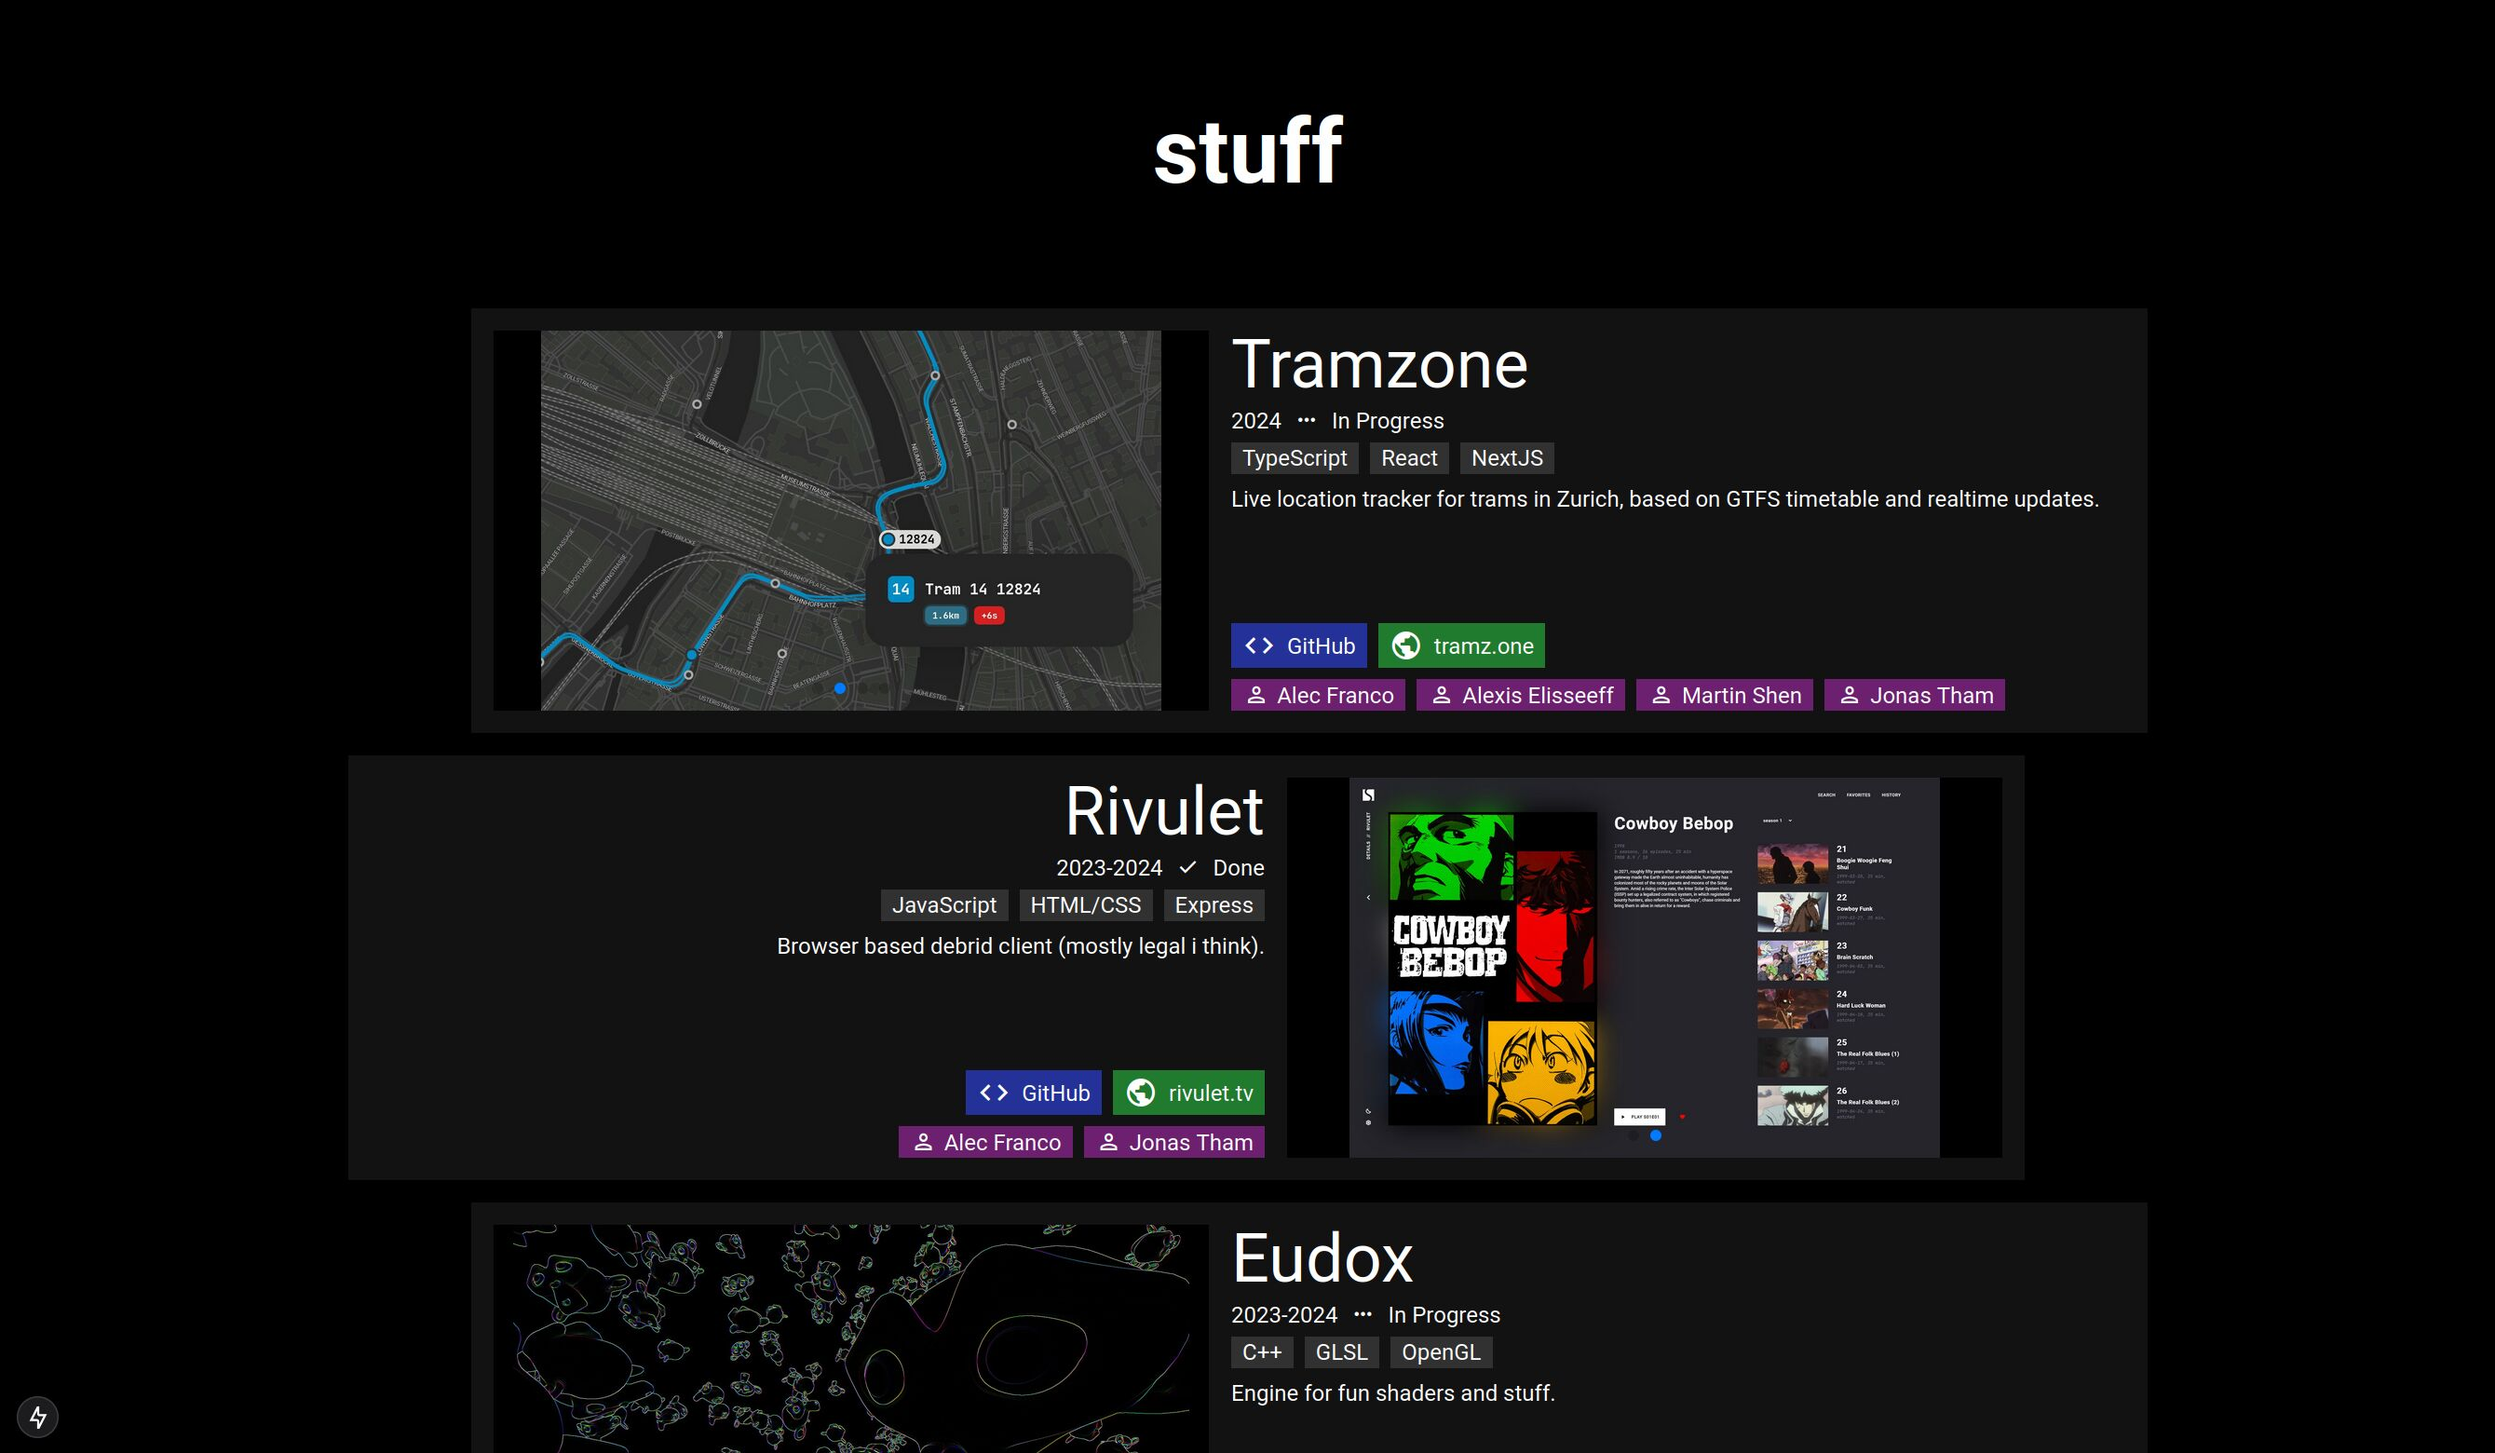
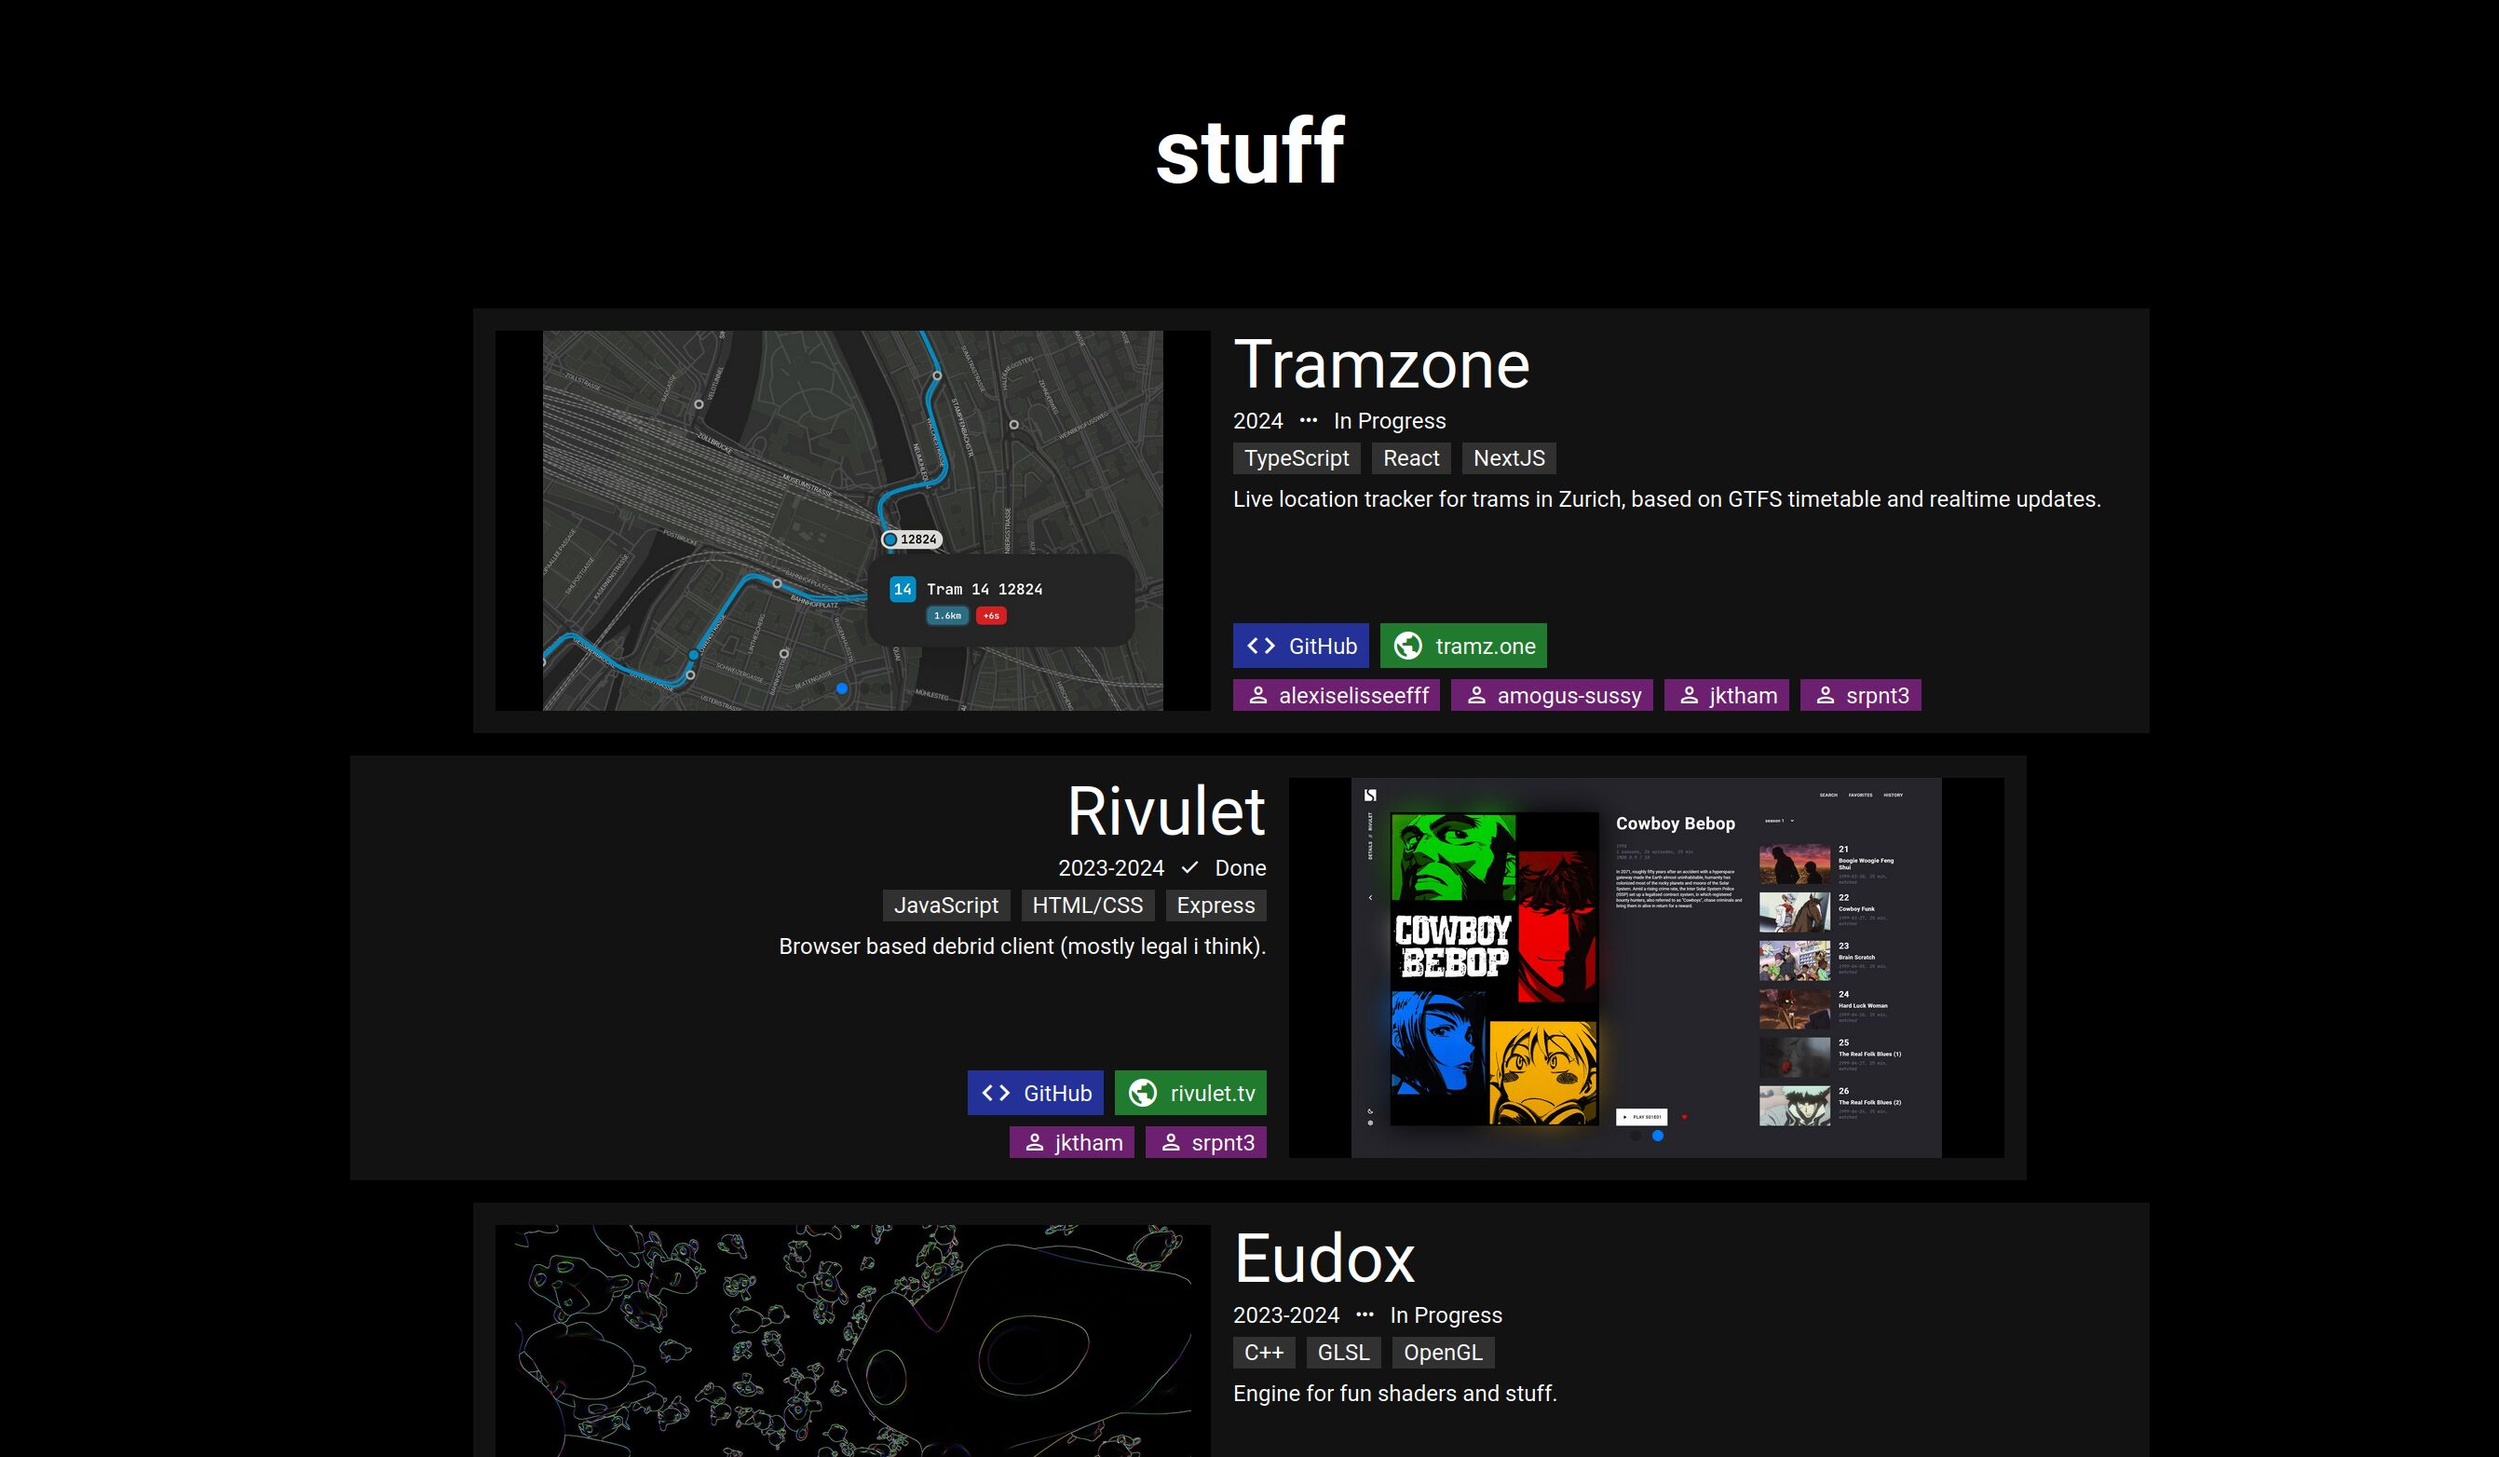
change to usernames

diff --git a/src/lib/projects.ts b/src/lib/projects.ts
@@ -25,17 +25,17 @@ export let projects: Project[] = [{
 		tools: ["TypeScript", "React", "NextJS"],
 		images: ["tramzone/lines.jpg", "tramzone/info.jpg", "tramzone/far.jpg", "tramzone/mobile.jpg"],
 		contributors: [{
-			name: "Alec Franco",
-			link: "https://github.com/srpnt3",
-		}, {
-			name: "Alexis Elisseeff",
+			name: "alexiselisseefff",
 			link: "https://github.com/alexiselisseeff",
 		}, {
-			name: "Jonas Tham",
+			name: "amogus-sussy",
+			link: "https://github.com/AMOGUS-SUSSY",
+		}, {
+			name: "jktham",
 			link: "https://github.com/jktham",
 		}, {
-			name: "Martin Shen",
-			link: "https://github.com/AMOGUS-SUSSY",
+			name: "srpnt3",
+			link: "https://github.com/srpnt3",
 		}],
 	}, {
 		name: "Rivulet",
@@ -48,11 +48,11 @@ export let projects: Project[] = [{
 		tools: ["JavaScript", "HTML/CSS", "Express"],
 		images: ["rivulet/home.jpg", "rivulet/bebop.jpg"],
 		contributors: [{
-			name: "Alec Franco",
-			link: "https://github.com/srpnt3",
-		}, {
-			name: "Jonas Tham",
+			name: "jktham",
 			link: "https://github.com/jktham",
+		}, {
+			name: "srpnt3",
+			link: "https://github.com/srpnt3",
 		}],
 	}, {
 		name: "Eudox",
@@ -65,7 +65,7 @@ export let projects: Project[] = [{
 		tools: ["C++", "GLSL", "OpenGL"],
 		images: ["eudox/1.jpg", "eudox/2.jpg", "eudox/3.jpg", "eudox/4.jpg", "eudox/5.jpg", "eudox/6.jpg", "eudox/7.jpg", "eudox/8.jpg"],
 		contributors: [{
-			name: "Jonas Tham",
+			name: "jktham",
 			link: "https://github.com/jktham",
 		}],
 	}, {
@@ -79,7 +79,7 @@ export let projects: Project[] = [{
 		tools: ["C++", "GLSL", "OpenGL"],
 		images: ["euclid/1.jpg", "euclid/2.jpg", "euclid/3.jpg", "euclid/4.jpg", "euclid/5.jpg", "euclid/6.jpg", "euclid/7.jpg"],
 		contributors: [{
-			name: "Jonas Tham",
+			name: "jktham",
 			link: "https://github.com/jktham",
 		}],
 	}, {
@@ -93,7 +93,7 @@ export let projects: Project[] = [{
 		tools: ["C++", "OpenGL"],
 		images: ["blockgame/1.jpg", "blockgame/2.jpg", "blockgame/3.jpg", "blockgame/4.jpg", "blockgame/5.jpg", ],
 		contributors: [{
-			name: "Jonas Tham",
+			name: "jktham",
 			link: "https://github.com/jktham",
 		}],
 	}, {
@@ -107,13 +107,13 @@ export let projects: Project[] = [{
 		tools: ["JavaScript", "React", "NextJS"],
 		images: ["rivulet2/1.jpg", "rivulet2/2.jpg"],
 		contributors: [{
-			name: "Alec Franco",
-			link: "https://github.com/srpnt3",
-		}, {
-			name: "Jonas Tham",
+			name: "jktham",
 			link: "https://github.com/jktham",
 		}, {
-			name: "Mark",
+			name: "srpnt3",
+			link: "https://github.com/srpnt3",
+		}, {
+			name: "the-simple-mark",
 			link: "https://github.com/THE-SIMPLE-MARK",
 		}],
 	}, {
@@ -127,7 +127,7 @@ export let projects: Project[] = [{
 		tools: ["Python", "PyQt5"],
 		images: ["decSat/1.jpg", "decSat/2.jpg", "decSat/3.jpg", "decSat/4.jpg", "decSat/5.jpg"],
 		contributors: [{
-			name: "Jonas Tham",
+			name: "jktham",
 			link: "https://github.com/jktham",
 		}],
 	}, {
@@ -141,7 +141,7 @@ export let projects: Project[] = [{
 		tools: ["C++", "OpenGL"],
 		images: ["helios/1.jpg", "helios/2.jpg", "helios/3.jpg", "helios/4.jpg"],
 		contributors: [{
-			name: "Jonas Tham",
+			name: "jktham",
 			link: "https://github.com/jktham",
 		}],
 	}, {
@@ -155,7 +155,7 @@ export let projects: Project[] = [{
 		tools: ["Java", "LWJGL"],
 		images: ["faketorio/1.jpg", "faketorio/2.jpg", "faketorio/3.jpg"],
 		contributors: [{
-			name: "Jonas Tham",
+			name: "jktham",
 			link: "https://github.com/jktham",
 		}],
 	}, {
@@ -169,11 +169,11 @@ export let projects: Project[] = [{
 		tools: ["C#", "Unity", "Blender"],
 		images: ["9to5simulator/1.jpg", "9to5simulator/2.jpg", "9to5simulator/3.jpg"],
 		contributors: [{
-			name: "Jonas Tham",
-			link: "https://github.com/jktham",
-		}, {
-			name: "Martin Shen",
+			name: "amogus-sussy",
 			link: "https://github.com/AMOGUS-SUSSY",
+		}, {
+			name: "jktham",
+			link: "https://github.com/jktham",
 		}],
 	}, {
 		name: "Spot",
@@ -186,7 +186,7 @@ export let projects: Project[] = [{
 		tools: ["Rust", "crossterm"],
 		images: ["spot/1.jpg"],
 		contributors: [{
-			name: "Jonas Tham",
+			name: "jktham",
 			link: "https://github.com/jktham",
 		}],
 	}, {
@@ -200,7 +200,7 @@ export let projects: Project[] = [{
 		tools: ["C++", "C", "Teensy41"],
 		images: ["cgtr/1.jpg", "cgtr/2.jpg"],
 		contributors: [{
-			name: "Jonas Tham",
+			name: "jktham",
 			link: "https://github.com/jktham",
 		}],
 	}, {
@@ -214,11 +214,11 @@ export let projects: Project[] = [{
 		tools: ["Verilog", "FPGA"],
 		images: ["bapple/1.jpg", "bapple/2.jpg"],
 		contributors: [{
-			name: "Alec Franco",
-			link: "https://github.com/srpnt3",
-		}, {
-			name: "Jonas Tham",
+			name: "jktham",
 			link: "https://github.com/jktham",
+		}, {
+			name: "srpnt3",
+			link: "https://github.com/srpnt3",
 		}],
 	}, {
 		name: "GregOS",
@@ -231,13 +231,13 @@ export let projects: Project[] = [{
 		tools: ["Lua", "OpenComputers"],
 		images: ["gregOS/1.jpg", "gregOS/2.jpg", "gregOS/3.jpg", "gregOS/4.jpg", "gregOS/5.jpg"],
 		contributors: [{
-			name: "Jonas Tham",
+			name: "jktham",
 			link: "https://github.com/jktham",
 		}],
 	}, {
 		name: "Portfolio",
 		description: "That's this :)",
-		year: "2024",
+		year: "2024-2025",
 		status: "In Progress",
 		statusIcon: "more_horiz",
 		repo: "https://github.com/jktham/portfolio",
@@ -245,7 +245,7 @@ export let projects: Project[] = [{
 		tools: ["TypeScript", "React", "NextJS"],
 		images: ["portfolio/main.jpg"],
 		contributors: [{
-			name: "Jonas Tham",
+			name: "jktham",
 			link: "https://github.com/jktham",
 		}],
 	},
